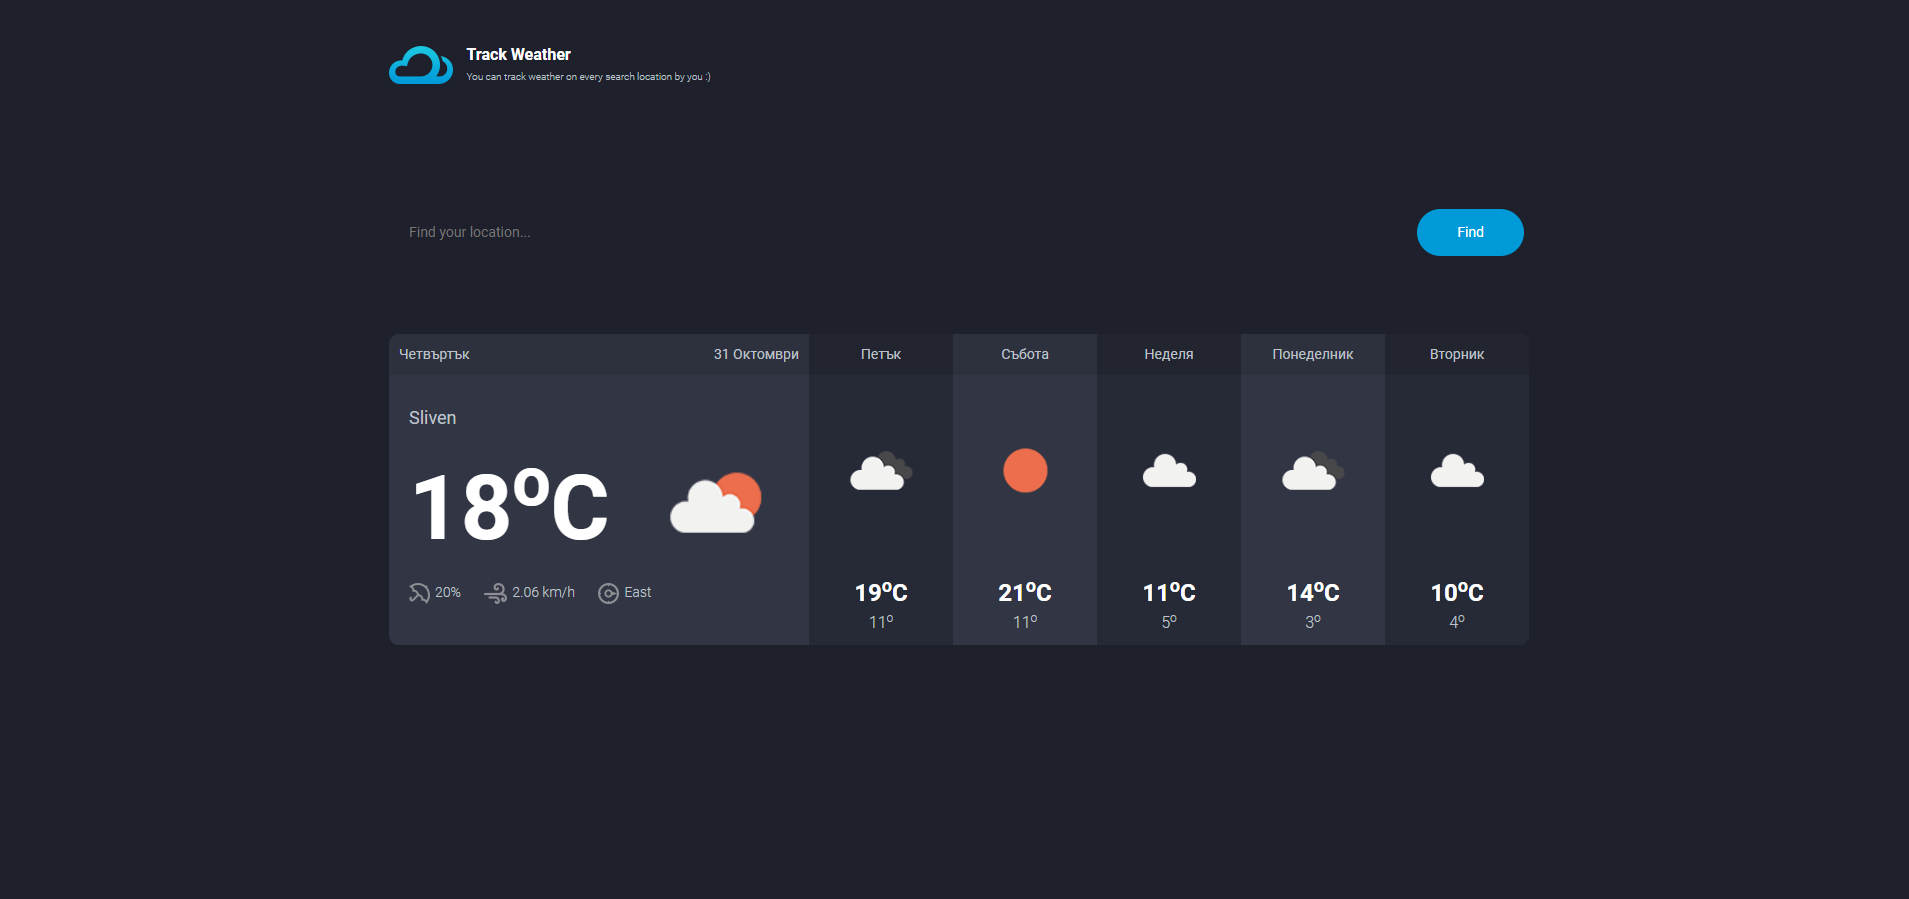
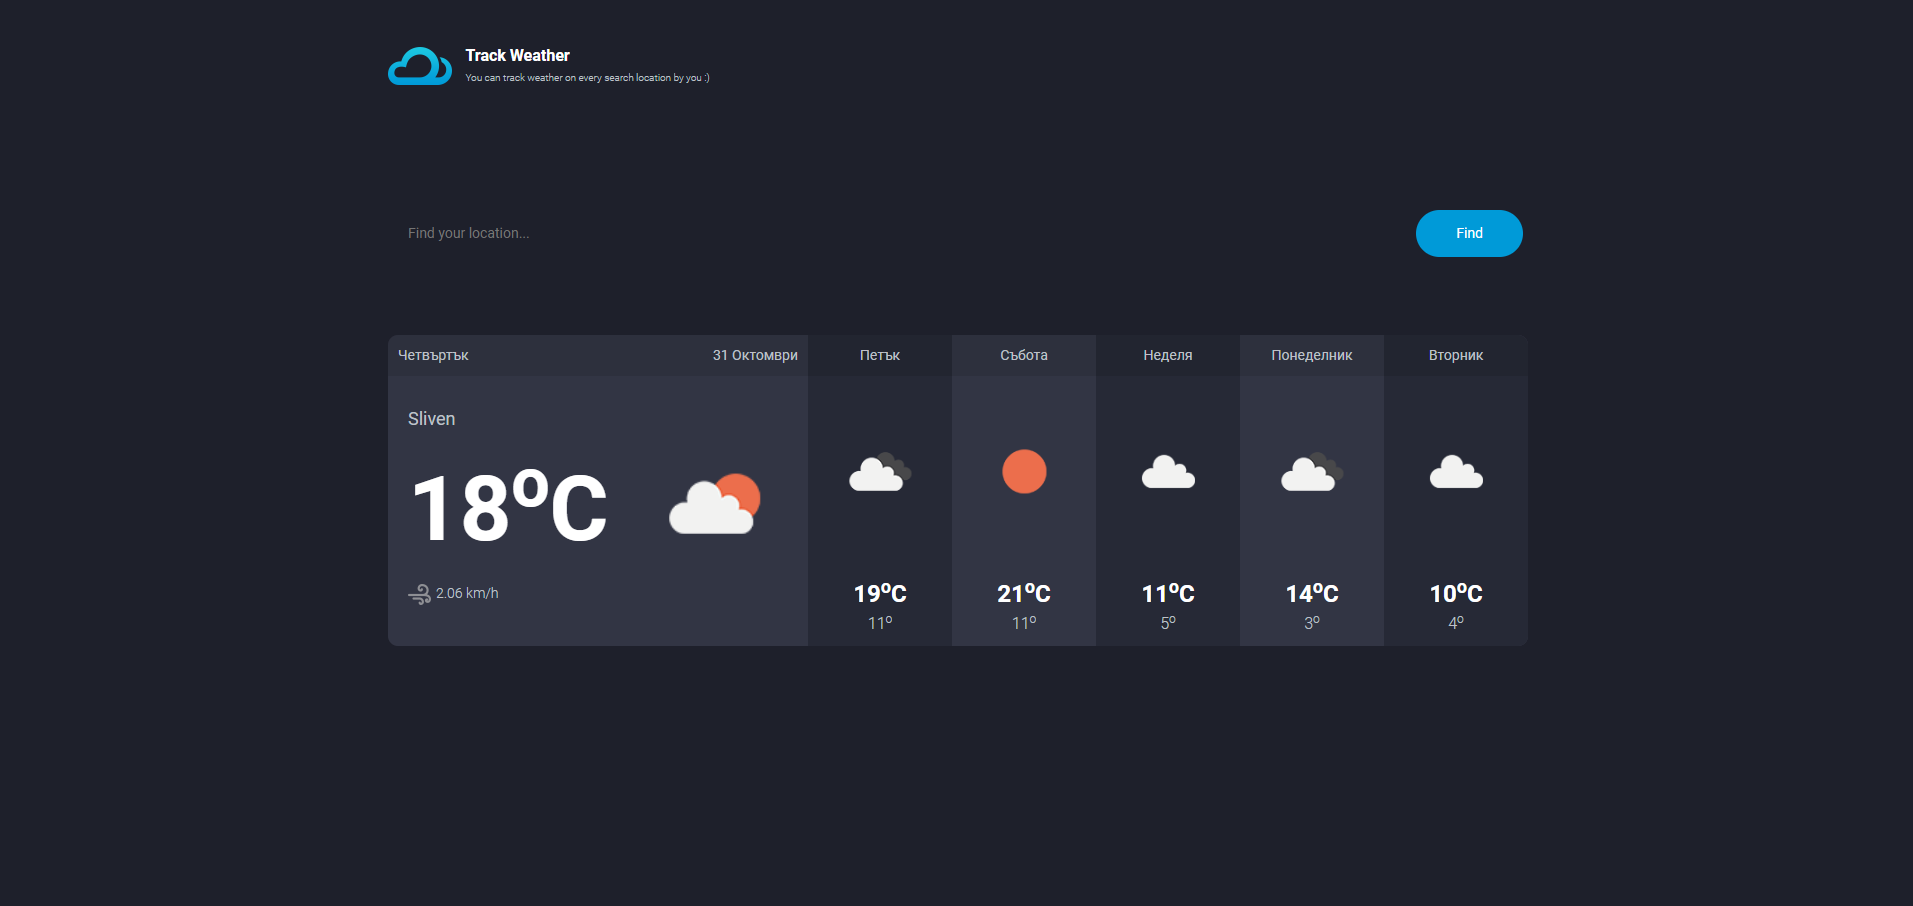
Replaced Weather png

diff --git a/client/index.js b/client/index.js
@@ -83,9 +83,7 @@ async function renderData(data, updatedData) {
                     <img src="https://openweathermap.org/img/wn/${weatherData[0].WeatherIcon}@2x.png" alt="" width="140">
                 </div>
             </div>
-            <span><img src="images/icon-umberella.png" alt="">20%</span>
             <span><img src="images/icon-wind.png" alt="">${weatherData[0].WindSpeed} km/h</span>
-            <span><img src="images/icon-compass.png" alt="">East</span>
         </div>
     </div>
 `;
